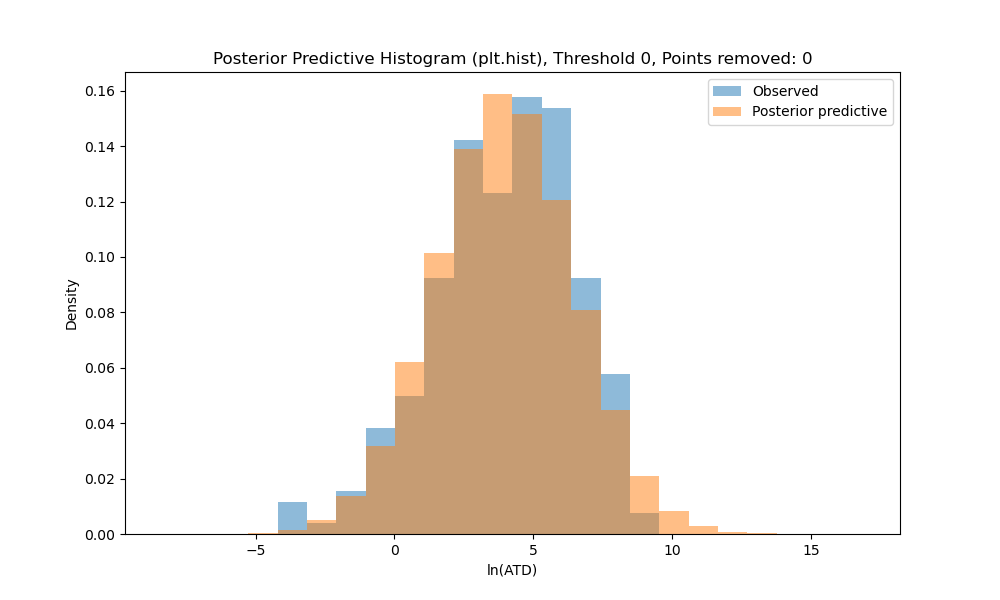
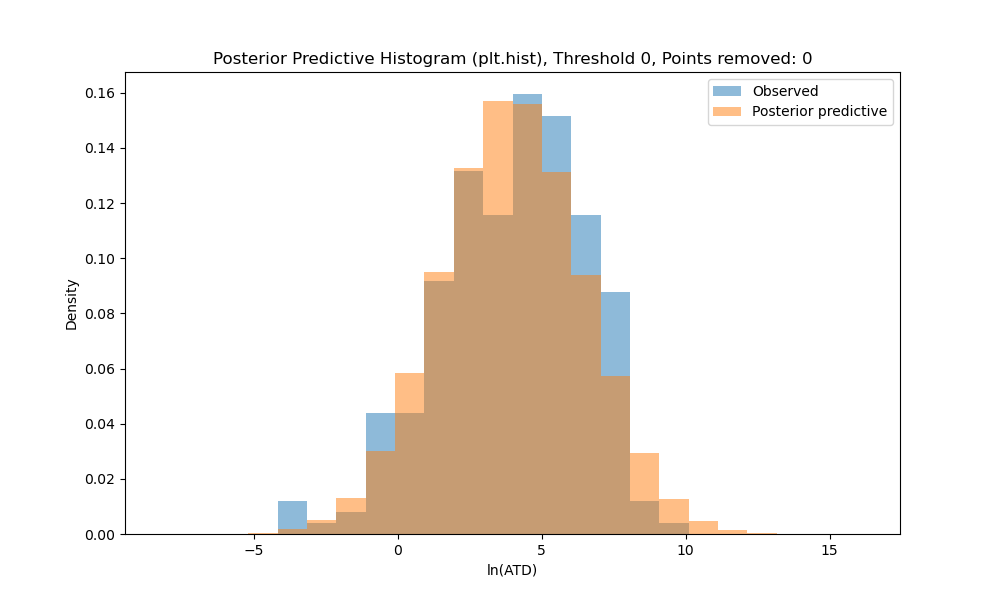
added some things

diff --git a/Code/Week2/BaseDamageBayes.py b/Code/Week2/BaseDamageBayes.py
@@ -1,0 +1,172 @@
+import pymc as pm
+import numpy as np
+import scipy.stats as stats
+import arviz as az
+from matplotlib import pyplot as plt
+import os
+import pandas as pd
+from pytensor.printing import Print
+import sys
+from io import StringIO
+
+
+
+#os.chdir(r"./Speciale/Code/Week2")
+def test_standard_lognormal(data):
+    scale = 1e6
+    scaled_data = data / scale
+
+    with pm.Model() as model:
+        mu = pm.Normal("mu", mu=np.mean(np.log(scaled_data)), sigma=10)
+        sigma = pm.HalfNormal("sigma", sigma=10)
+        
+        obs = pm.LogNormal("obs", mu=mu, sigma=sigma, observed=scaled_data)
+        
+        start = {
+            "mu": np.mean(np.log(scaled_data)),
+            "sigma_log__": np.log(np.std(np.log(scaled_data)))
+        }
+        
+        trace = pm.sample(start=start, draws=2500, tune=1000, target_accept=0.95)
+
+
+
+    
+
+    az.plot_trace(trace, var_names=["mu", "sigma"], figsize=(12, 12))
+    plt.show()
+    az.plot_pair(trace, var_names=["mu", "sigma"], kind="kde", marginals=True, divergences=True)
+    plt.show()
+    with model:
+        ppc = pm.sample_posterior_predictive(trace)
+    ppc_values = ppc.posterior_predictive['obs'].values.flatten()*scale
+    # -----------------------
+    # Method 1: Standard plt.hist
+    # -----------------------
+    combined = np.concatenate([np.log(data), np.log(ppc_values)])
+    bins = np.linspace(combined.min(), combined.max(), max(int(np.sqrt(len(data))), 25))
+    plt.figure(figsize=(10,6))
+    plt.hist(np.log(data), bins=bins, density=True, alpha=0.5, label="Observed")
+    plt.hist(np.log(ppc_values), bins=bins, density=True, alpha=0.5, label="Posterior predictive")
+    plt.xlabel("ln(ATD)")
+    plt.ylabel("Density")
+    plt.title("Posterior Predictive Histogram (plt.hist)")
+    plt.legend()
+    plt.show()
+
+def test_standard_normal(data):
+    log_data = np.log(data)
+
+    with pm.Model() as model:
+        mu = pm.Normal("mu", mu=15, sigma=10)
+        sigma = pm.HalfNormal("sigma", sigma=10)
+        
+        obs = pm.Normal("obs", mu=mu, sigma=sigma, observed=log_data)
+        
+
+        
+        trace = pm.sample( draws=2500, tune=1000, target_accept=0.95)
+
+
+
+    
+
+    az.plot_trace(trace, var_names=["mu", "sigma"], figsize=(12, 12))
+    plt.show()
+    az.plot_pair(trace, var_names=["mu", "sigma"], kind="kde", marginals=True, divergences=True)
+    plt.show()
+    with model:
+        ppc = pm.sample_posterior_predictive(trace)
+    ppc_values = ppc.posterior_predictive['obs'].values.flatten()
+    # -----------------------
+    # Method 1: Standard plt.hist
+    # -----------------------
+    combined = np.concatenate([np.log(data), ppc_values])
+    bins = np.linspace(combined.min(), combined.max(), max(int(np.sqrt(len(data))), 25))
+    plt.figure(figsize=(10,6))
+    plt.hist(log_data, bins=bins, density=True, alpha=0.5, label="Observed")
+    plt.hist(ppc_values, bins=bins, density=True, alpha=0.5, label="Posterior predictive")
+    plt.xlabel("ln(ATD)")
+    plt.ylabel("Density")
+    plt.title("Posterior Predictive Histogram (plt.hist)")
+    plt.legend()
+    plt.show()
+
+def hurricane_physical_model(df):
+    # Clean data
+    df_clean = df[df['basedamage'] > 0].copy()
+    df_clean = df_clean.dropna(subset=['ATD', 'population', 'WPC', 'lf_wind', 'lf_pressure'])
+    
+    # Prepare variables
+    log_data = np.log(df_clean['basedamage'])
+    ATD = df_clean['ATD'].values
+    population = df_clean['population'].values
+    WPC = df_clean['WPC'].values
+    wind_speed = df_clean['lf_wind'].values
+    pressure = df_clean['lf_pressure'].values
+
+    with pm.Model() as model:
+        # Priors for the linear combination
+        alpha = pm.Normal("alpha", mu=15, sigma=10)
+        sigma = pm.HalfNormal("sigma", sigma=10)
+        wind_speed_coef = pm.HalfNormal("wind_speed_coef", sigma=2)
+        pressure_coef = pm.Normal("pressure_coef", mu=0,sigma=2)
+        
+        # Linear combination of parameters (like your supervisor suggested)
+        mu = (alpha )+wind_speed_coef*wind_speed+pressure_coef*pressure
+        
+        obs = pm.Normal("obs", mu=mu, sigma=sigma, observed=log_data)
+        
+        trace = pm.sample(draws=2500, tune=1000, target_accept=0.95)
+        summary = az.summary(trace, hdi_prob=0.95)
+        print(summary)
+
+    # Plot traces
+    az.plot_trace(trace, var_names=["alpha", "sigma", "wind_speed_coef", "pressure_coef"], figsize=(12, 12))
+    plt.show()
+    
+    az.plot_pair(trace, var_names=["alpha", "sigma", "wind_speed_coef", "pressure_coef"], 
+                 kind="kde", marginals=True, divergences=True)
+    plt.show()
+    
+    # Posterior predictive check
+    with model:
+        ppc = pm.sample_posterior_predictive(trace)
+    
+    ppc_values = ppc.posterior_predictive['obs'].values.flatten()
+    
+    # Histogram comparison
+    combined = np.concatenate([log_data, ppc_values])
+    bins = np.linspace(combined.min(), combined.max(), max(int(np.sqrt(len(log_data))), 25))
+    plt.figure(figsize=(10,6))
+    plt.hist(log_data, bins=bins, density=True, alpha=0.5, label="Observed")
+    plt.hist(ppc_values, bins=bins, density=True, alpha=0.5, label="Posterior predictive")
+    plt.xlabel("ln(Base Damage)")
+    plt.ylabel("Density")
+    plt.title("Posterior Predictive Histogram")
+    plt.legend()
+    plt.show()
+    
+    return trace
+
+if __name__ == "__main__":
+    #Example usage
+    df = pd.read_excel('./Speciale/Hurricane_data/Aslak_data.xls', sheet_name='ATD of ICAT', engine='xlrd')
+    df_clean = df.dropna(subset=['ATD', 'population', 'WPC', 'lf_wind', 'lf_pressure'])
+    BD = np.array(df_clean['basedamage'].values)
+    BD = BD[BD > 0]  #remove non-positive values
+
+    plt.hist(np.log(BD), bins=20, density=True, alpha=0.6, color='g')
+    plt.xlabel("ln(Base Damage)")
+    plt.ylabel("Density")
+    plt.title("Histogram of Base Damage")
+    plt.savefig("./Speciale/Code/Week2/Plots/BaseDamage_histogram.png")
+    plt.close()
+    #plot scaled data
+    plt.hist(np.log(BD/1e6), bins=20, density=True, alpha=0.6, color='b')
+    plt.xlabel("ln(Scaled Base Damage)")
+    plt.ylabel("Density")
+    plt.title("Histogram of Scaled Base Damage")
+    plt.savefig("./Speciale/Code/Week2/Plots/Scaled_BaseDamage_histogram.png")
+    plt.close()
+    hurricane_physical_model(df)

diff --git a/Code/LogNormal_pymc_simple.py b/Code/LogNormal_pymc_simple.py
@@ -24,7 +24,7 @@ def test_standard_lognormal(ATD, threshold=0.5):
     #pm.lognormal uses mu and sigma of the underlying normal distribution and is the likelihood
     
     with pm.Model() as model:
-        mu = pm.Normal('mu', mu=10, sigma=6)
+        mu = pm.Normal('mu', mu=18, sigma=10)
         sigma = pm.HalfNormal('sigma', sigma=6)
 
         lognormal_obs = pm.LogNormal('obs', mu=mu, sigma=sigma, observed=ATD_filtered)
@@ -90,7 +90,7 @@ def test_standard_lognormal(ATD, threshold=0.5):
 
 
 if __name__ == "__main__":
-    df = pd.read_excel('./Speciale/Aslak_data.xls', sheet_name='ATD of ICAT', engine='xlrd')
+    df = pd.read_excel('./Speciale/Hurricane_data/Aslak_data.xls', sheet_name='ATD of ICAT', engine='xlrd')
 
     ATD = df['ATD'].values
 

diff --git a/Code/add_tide_column.py b/Code/add_tide_column.py
@@ -57,7 +57,7 @@ def bounding_box(lat, lon, delta_lat=0.5, delta_lon=0.5):
 
 os.chdir(r"./Speciale/Pyfes_data")
 def simulate_tide_at_landfall(lat, lon, time):
-    bbox = bounding_box(lat, lon, delta_lat=5, delta_lon=5)
+    bbox = bounding_box(lat, lon, delta_lat=1, delta_lon=1)
     print(time)
     
 
@@ -87,7 +87,7 @@ def add_tide_column(df):
         tide_values.append(tide_level)
     df['Tide_Level'] = tide_values
     return df
-add_tide_column(data.head(10))
+add_tide_column(data.head(20))
 
 
 
